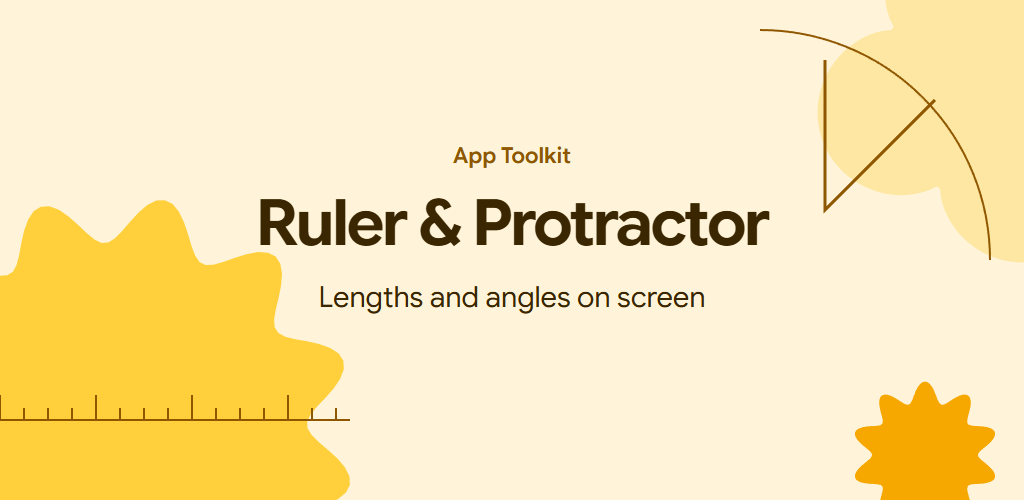
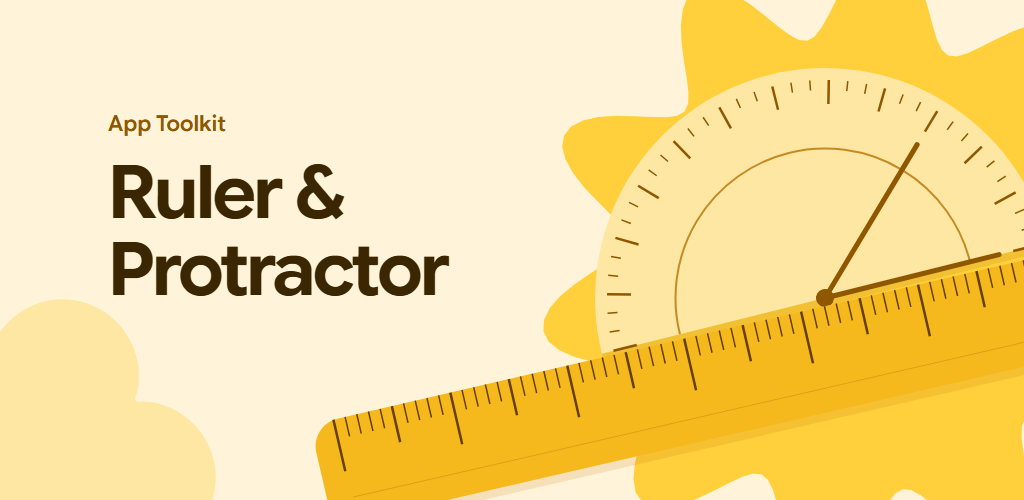
Redesign measurement feature graphic with expressive instruments

diff --git a/marketing/creative/store/google-play/listings/custom/ruler-and-protractor/source/src/FeatureGraphic.tsx b/marketing/creative/store/google-play/listings/custom/ruler-and-protractor/source/src/FeatureGraphic.tsx
@@ -1,20 +1,34 @@
 import React from "react";
 import {AbsoluteFill} from "remotion";
 import {useFonts} from "./LitScreen";
-import {STRINGS} from "./strings";
 import {Shape} from "./Shape";
 import {FONT,INK} from "./theme";
-export type Concept="ripple"|"ribbon";
-export const FeatureGraphic:React.FC<{locale:string;concept?:Concept}>=({locale})=>{
- useFonts();const s=STRINGS[locale].featureGraphic;
+
+export type Concept="ripple"|"ribbon"|"editorial";
+const Ruler:React.FC<{x:number;y:number;width:number;angle:number}>=({x,y,width,angle})=><g transform={`translate(${x} ${y}) rotate(${angle})`}>
+ <rect x="0" y="8" width={width} height="104" rx="28" fill="#B56D00" opacity=".14"/>
+ <rect width={width} height="104" rx="28" fill="#F6B91D"/>
+ <path d={`M 26 80 H ${width-26}`} stroke="#8F5700" opacity=".25"/>
+ {Array.from({length:Math.floor((width-48)/12)},(_,i)=><line key={i} x1={24+i*12} x2={24+i*12} y1="0" y2={i%10===0?53:i%5===0?37:20} stroke="#654000" strokeWidth={i%5?1.5:2.5}/>)}
+</g>;
+const Protractor:React.FC<{x:number;y:number;r:number;angle?:number}>=({x,y,r,angle=0})=><g transform={`translate(${x} ${y}) rotate(${angle})`}>
+ <path d={`M ${-r} 0 A ${r} ${r} 0 0 1 ${r} 0 Z`} transform="translate(0 8)" fill="#8F5700" opacity=".12"/>
+ <path d={`M ${-r} 0 A ${r} ${r} 0 0 1 ${r} 0 Z`} fill="#FDE7A2"/>
+ <path d={`M ${-r*.65} 0 A ${r*.65} ${r*.65} 0 0 1 ${r*.65} 0`} stroke="#C48B24" strokeWidth="2" fill="none"/>
+ {Array.from({length:37},(_,i)=>{const a=Math.PI+i*Math.PI/36,outer=r-12,inner=outer-(i%3?10:24);return <line key={i} x1={Math.cos(a)*outer} y1={Math.sin(a)*outer} x2={Math.cos(a)*inner} y2={Math.sin(a)*inner} stroke="#8F5700" strokeWidth={i%3?1.5:2.5}/>})}
+ <path d={`M ${r*.78} 0 H 0 L ${r*.55} ${-r*.55}`} fill="none" stroke="#8F5700" strokeWidth="5" strokeLinecap="round"/><circle r="9" fill="#8F5700"/>
+</g>;
+export const FeatureGraphic:React.FC<{locale:string;concept?:Concept}>=({concept="ribbon"})=>{
+ useFonts();
+ const editorial=concept==="editorial", geometry=concept==="ripple";
  return <AbsoluteFill style={{background:"#FFF4D9",fontFamily:FONT,color:INK,overflow:"hidden"}}>
- <Shape name="cookie_12sided" x={-130} y={190} size={490} color="#FFD03B" rotate={12}/>
- <Shape name="clover_4leaf" x={810} y={-100} size={370} color="#FDE7A2" rotate={-16}/>
- <Shape name="soft_burst" x={850} y={380} size={150} color="#F6A800" rotate={18}/>
- <svg width="1024" height="500" style={{position:"absolute",inset:0}} fill="none" stroke="#8F5700" strokeWidth="2">
- <path d="M 0 420 H 350"/>{Array.from({length:15},(_,i)=><path key={i} d={`M ${i*24} 420 v ${i%4?-12:-25}`}/>)}
- <path d="M 760 30 A 230 230 0 0 1 990 260"/><path d="M 825 60 V 210 L 935 100" strokeWidth="3"/>
+ {geometry?<><Shape name="cookie_12sided" x={-100} y={80} size={520} color="#FFD03B" rotate={15}/><Shape name="clover_4leaf" x={700} y={-180} size={580} color="#FDE7A2" rotate={12}/></>:editorial?<Shape name="flower" x={535} y={40} size={510} color="#FDE7A2" rotate={18}/>:<><Shape name="soft_burst" x={530} y={-60} size={650} color="#FFD03B" rotate={-12}/><Shape name="clover_4leaf" x={-120} y={295} size={340} color="#FDE7A2" rotate={8}/></>}
+ <svg width="1024" height="500" style={{position:"absolute",inset:0}}>
+ {geometry?<><Ruler x={-50} y={445} width={530} angle={-14}/><Protractor x={875} y={220} r={240} angle={-25}/></>:editorial?<><Protractor x={790} y={365} r={195} angle={-8}/><Ruler x={590} y={373} width={540} angle={-22}/></>:<><Protractor x={825} y={298} r={230} angle={-14}/><Ruler x={310} y={425} width={790} angle={-13}/></>}
  </svg>
- <div style={{position:"absolute",left:110,right:110,top:142,textAlign:"center"}}><div style={{fontSize:22,fontWeight:600,color:"#8F5700"}}>{s.brand}</div><div style={{fontSize:64,fontWeight:650,letterSpacing:-2,marginTop:14}}>{s.title}</div><div style={{fontSize:29,marginTop:16}}>{s.tagline}</div></div>
+ <div style={{position:"absolute",left:editorial?108:geometry?250:108,top:editorial?132:geometry?145:110,width:editorial?450:geometry?530:480}}>
+ <div style={{fontSize:22,fontWeight:600,color:"#8F5700",marginBottom:18}}>App Toolkit</div>
+ <h1 style={{fontSize:editorial?67:74,lineHeight:1.04,letterSpacing:-2.4,fontWeight:650,margin:0}}>Ruler &amp;<br/>Protractor</h1>
+ </div>
  </AbsoluteFill>
 };
